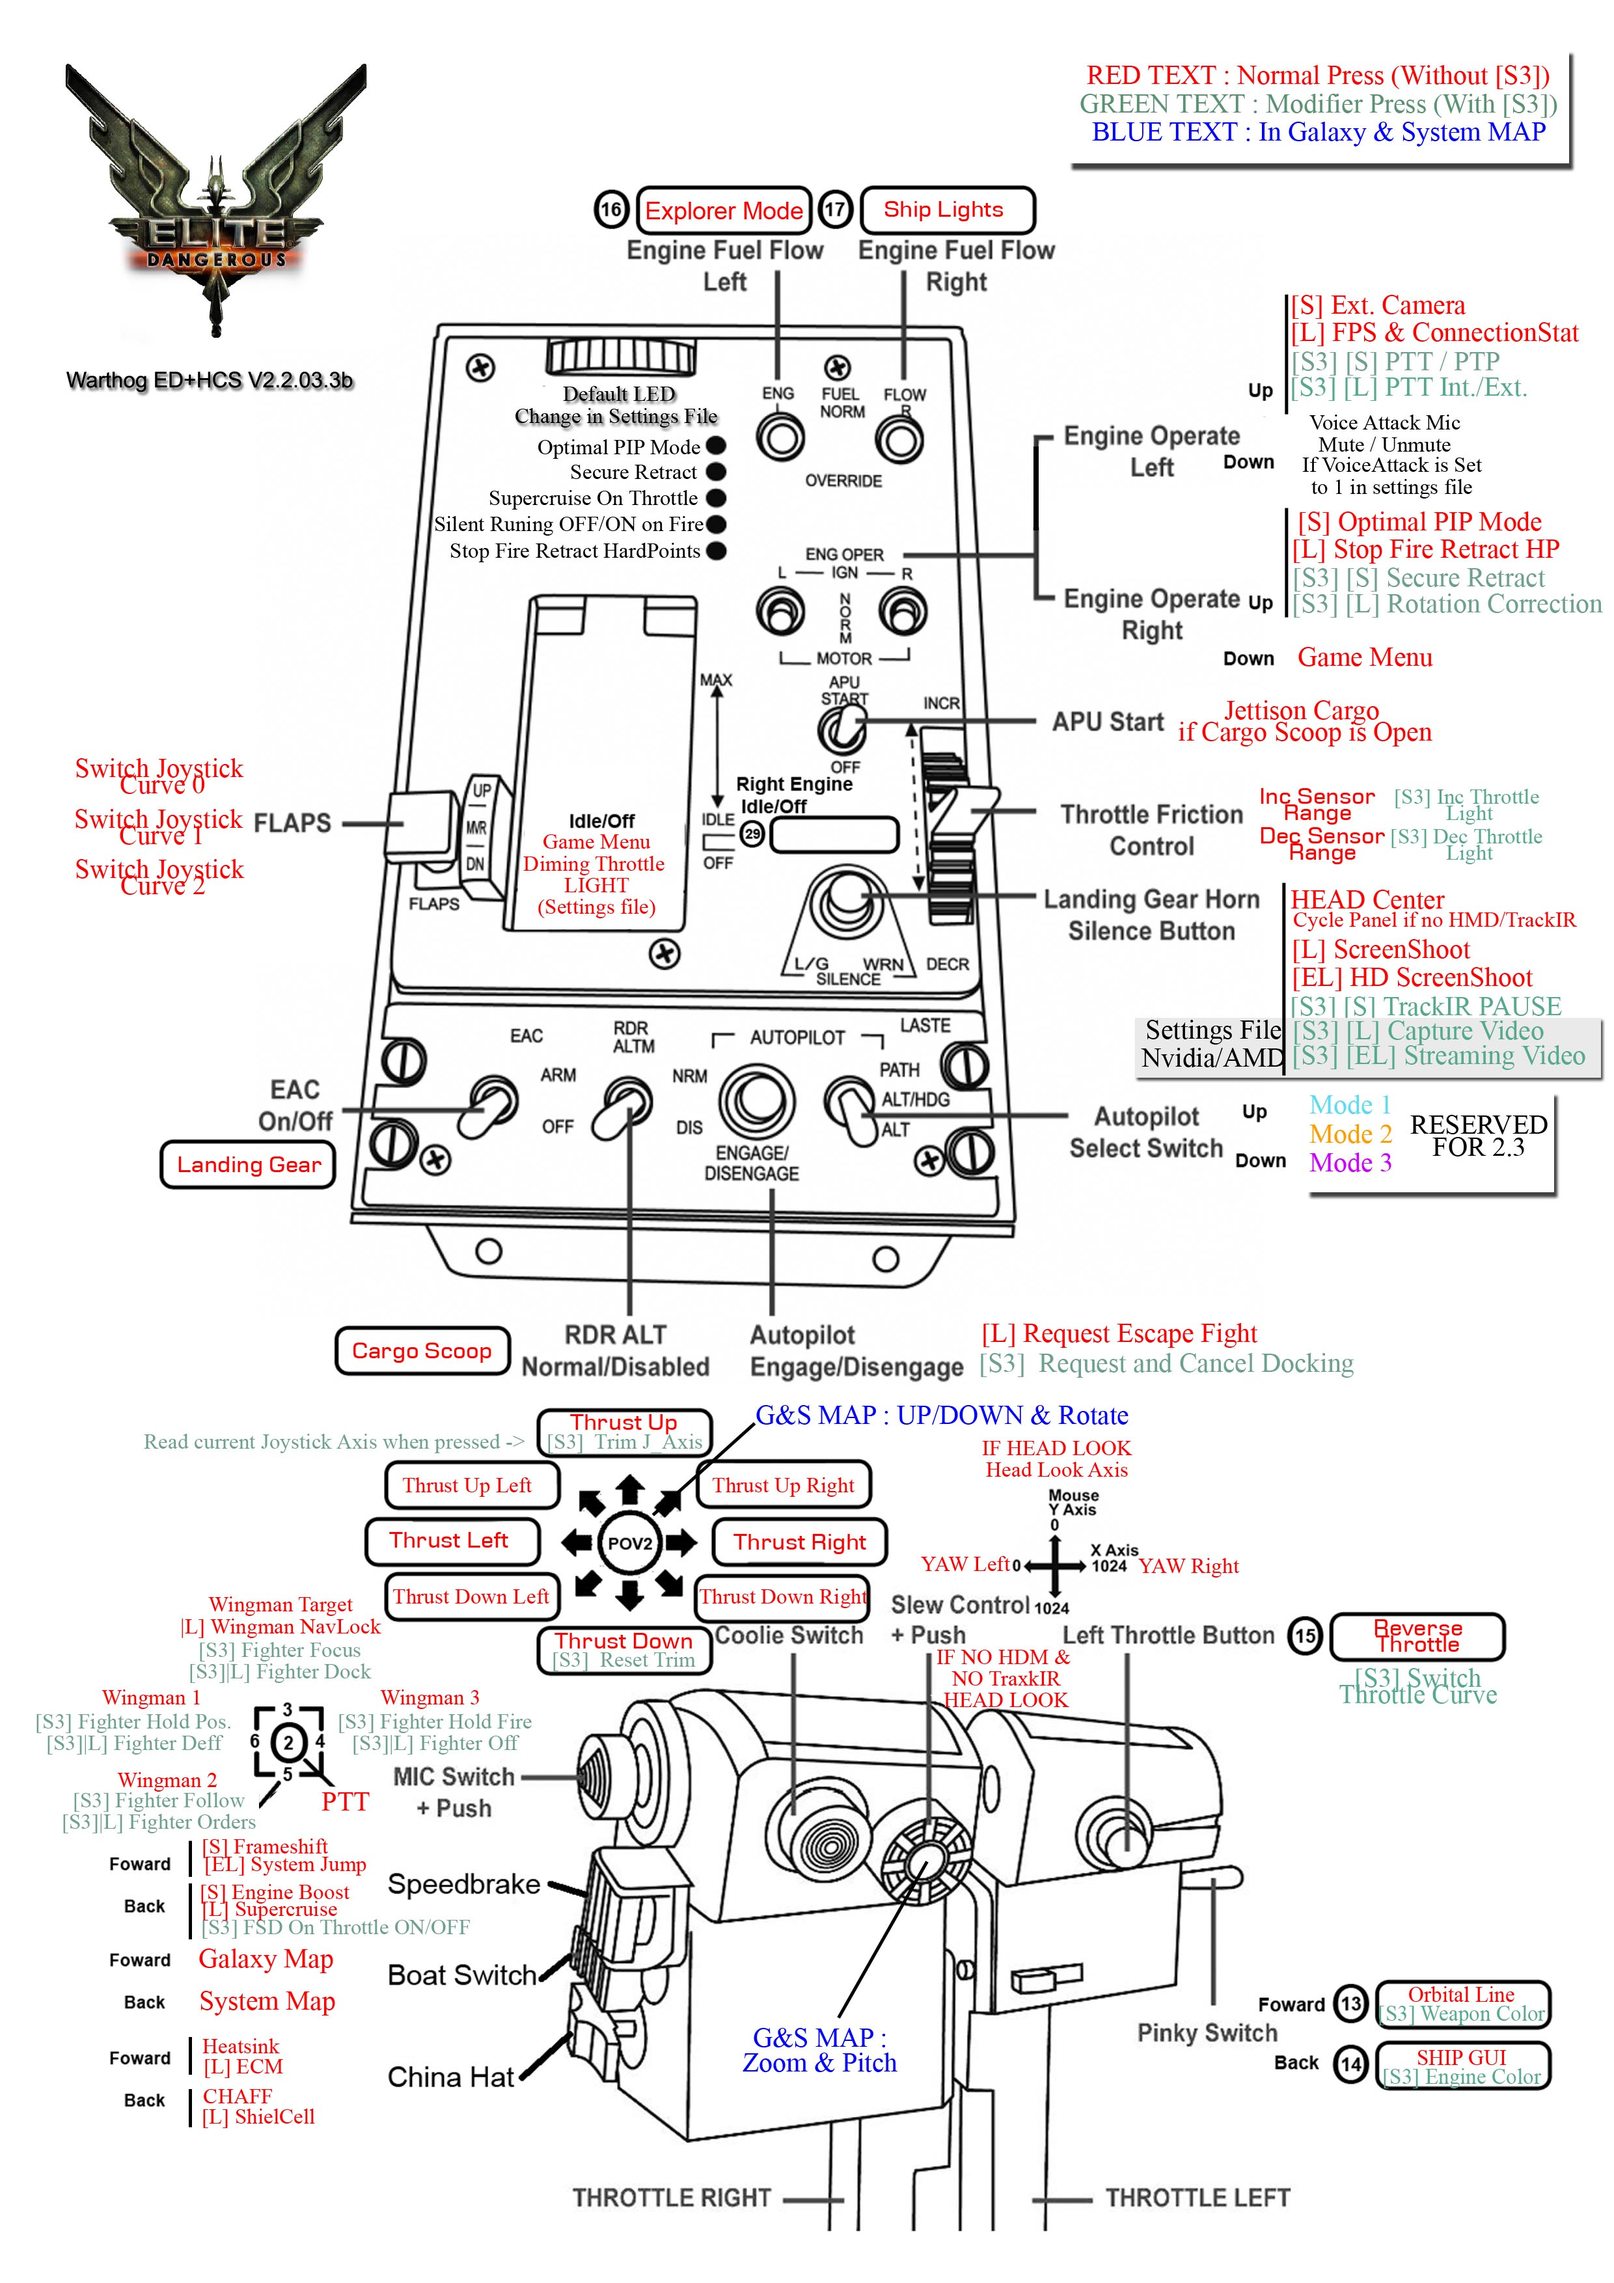
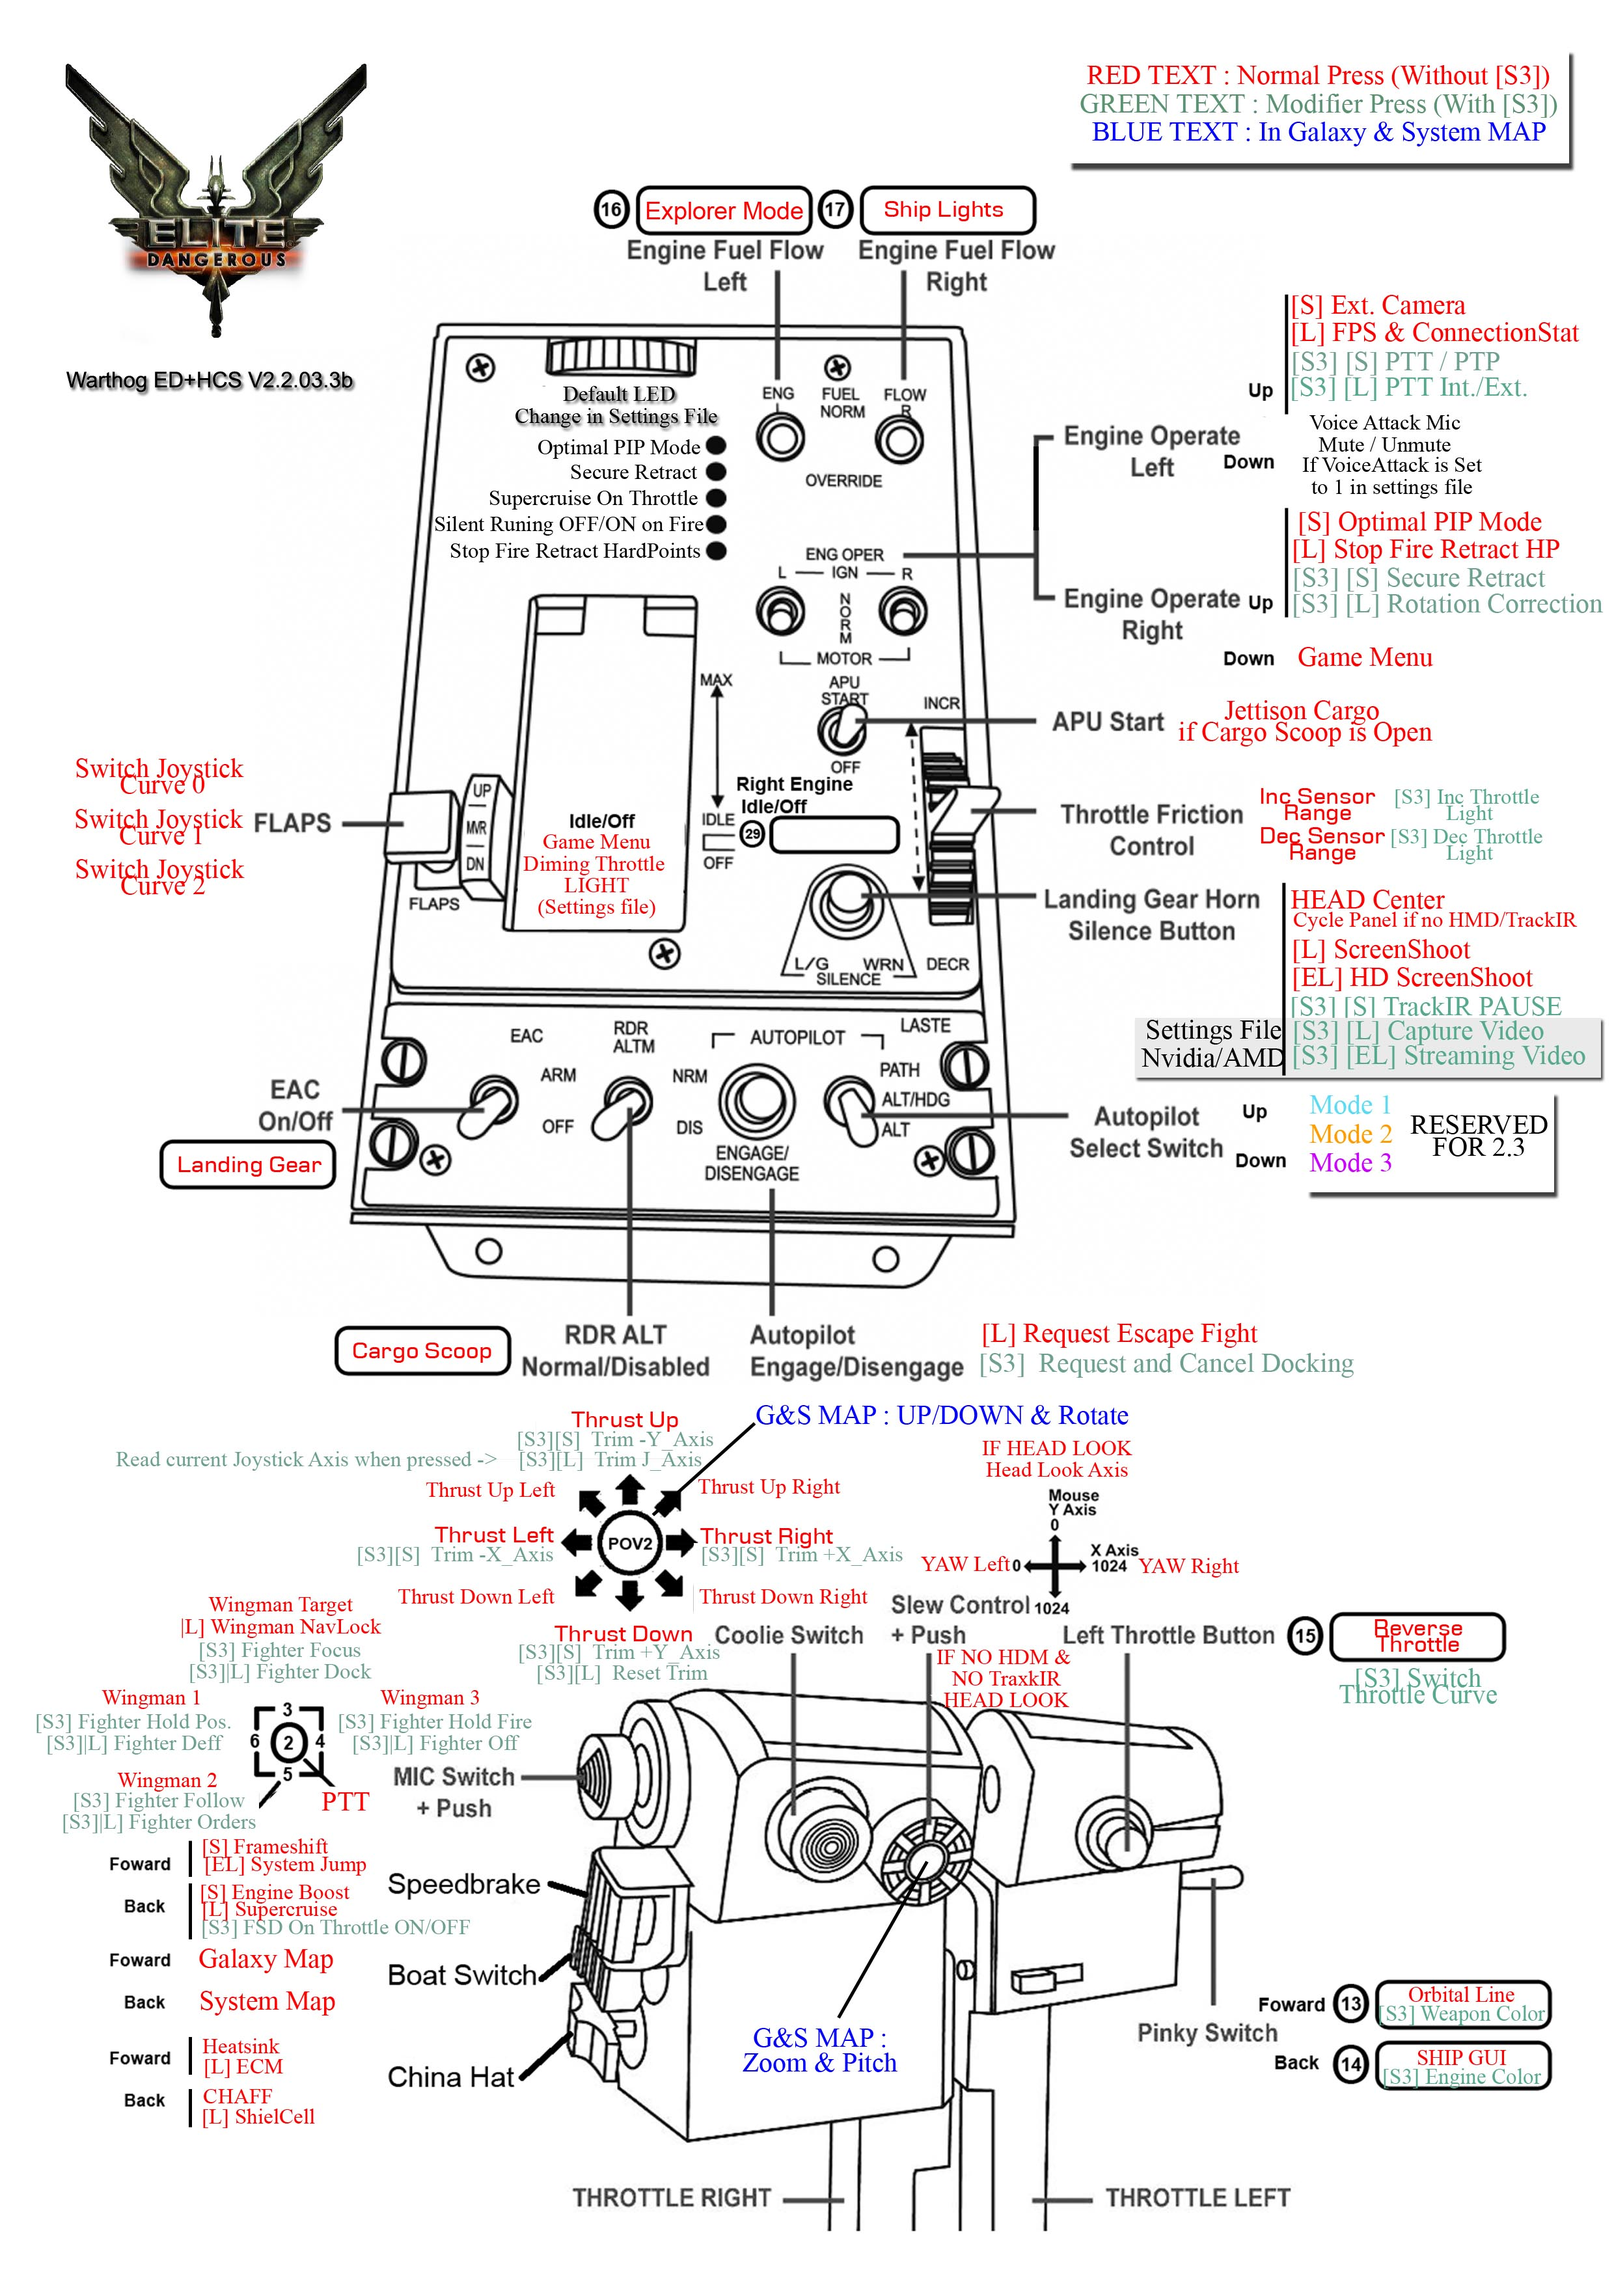
Add (Trim Axis with Increment)
*  Add Trim_INC Setting
*  Add or subtract a trim value in relation to an axis. This is the
normal way to manage a digital trim: eachtime you press a button, the
axis offset is changed. You can define the offset value and its
direction.
*  Update Throttle Chart

Changed region(s): [[0.0931, 0.5904, 0.5589, 0.7457]]

diff --git a/README.md b/README.md
@@ -96,7 +96,7 @@ Almost ALL Optional Extra (OptimalPIPMode, Stop Fire Retract Hardpoints, Silent 
 - [x] 2 Throttle Curve Switchable On The Fly (normal & precison). Can be switched On & Off On The Fly (S3 (Joystick Nosewhell Steering Button) + Press RED Button on Throttle Arm)
 - [x] Enhanced Joystick Curves tailored for Flight Assist Off (Joystick Curve will return to previous state when FAON is release)
 - [ ] Support Joystick Axis trimming :  memorize the X and Y axis position and calculate the difference to the
-center of the axis, and then  apply it to the X and Y axis (Throttle Coolie Switch [S3]UP to engage, [S3]DOWN to reset : Check Chart)
+center of the axis, and then  apply it to the X and Y axis (Throttle Coolie Switch [S3]UP to engage, [S3]DOWN to reset : Check Chart) OR Trim Old Way with Offset you can chose in Setting (Trim_INC)(Check Throttle Chart)
 
 ### AUTOPILOT MODE:
 
